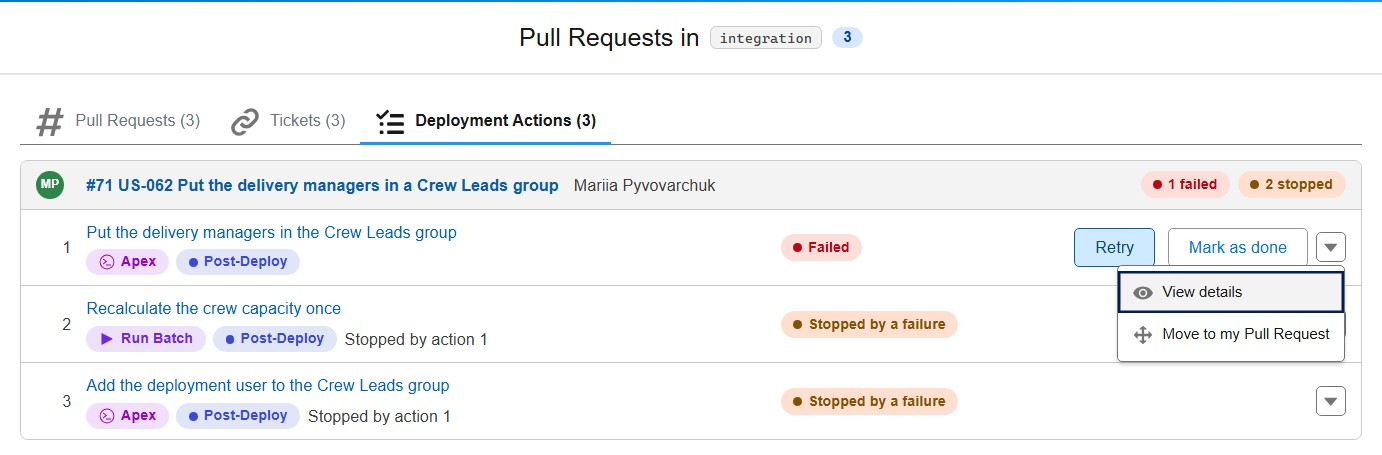
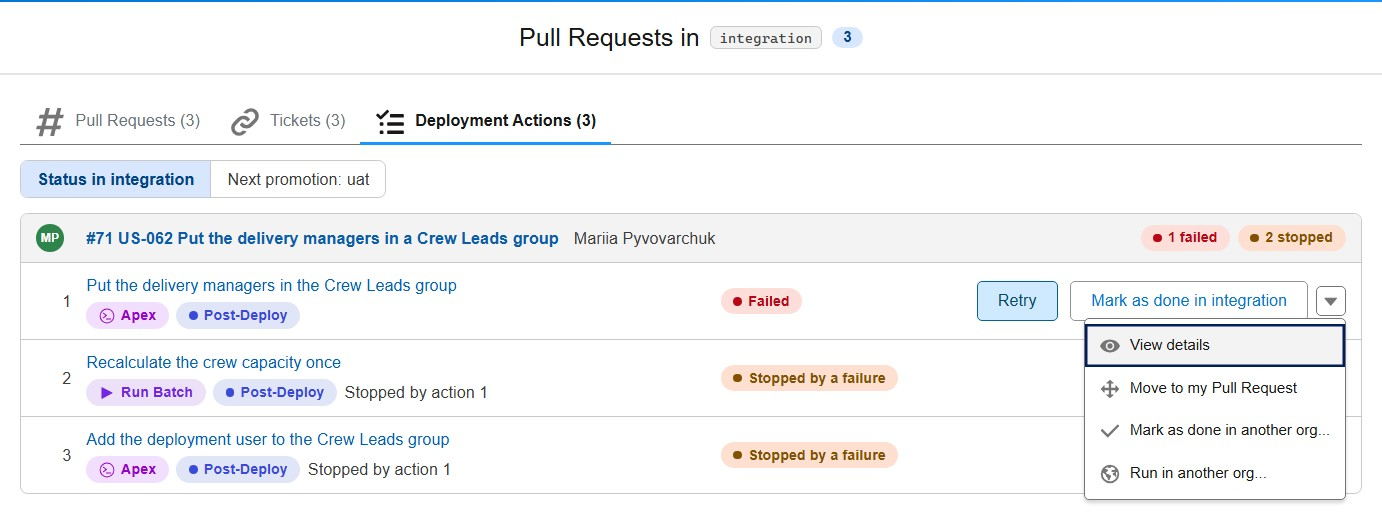
docs(deployment-actions): Total pills of the VS Code Deployment Actions tab (#2278)
* docs(deployment-actions): describe the Total pills of the VS Code Deployment Actions tab

The tab adds up the pills of its Pull Requests in a Total row, and the
"N to do" counter of the promotion bar is gone. The screenshot of the tab is
taken again with the current extension: it shows the Status / Next promotion
switch and the four items of the row menu.

Part of #2274

* docs(deployment-actions): the Total pills filter the VS Code Deployment Actions tab

Part of #2274

diff --git a/docs/salesforce-devops-work-on-user-story-deployment-actions.md b/docs/salesforce-devops-work-on-user-story-deployment-actions.md
@@ -662,7 +662,7 @@ You do not need to re-run the whole deployment job. Pick the way that fits the c
 | The action definition is wrong (script path, class name, parameter)             | **Move it to a fix Pull Request**, correct it there, merge: it runs from the fix Pull Request                       |
 | Someone already did it by hand                                                  | **Mark it as done**: it is recorded as done, with who closed it and when, and later deployments to that org skip it |
 
-**From VS Code**: open the DevOps Pipeline, click the major branch (or the Pull Request), then the **Deployment Actions** tab. The actions are grouped by Pull Request, in the order they run, with their status in the org of the branch and, for a stopped one, the action that stopped it. A failed action shows **Retry** and **Mark as done** buttons, and the menu at the end of each row holds the rest, **Move to my Pull Request** included.
+**From VS Code**: open the DevOps Pipeline, click the major branch (or the Pull Request), then the **Deployment Actions** tab. The actions are grouped by Pull Request, in the order they run, with their status in the org of the branch and, for a stopped one, the action that stopped it. The header of each Pull Request counts its actions by status and, when the window lists several Pull Requests, the **Total** pills above them add up the whole window. Click a **Total** pill to hide the actions of that status, and click it again to show them. A failed action shows **Retry** and **Mark as done** buttons, and the menu at the end of each row holds the rest, **Move to my Pull Request** included.
 
 ![Deployment Actions tab with the status of each action and the menu of a failed one](assets/images/screenshot-deployment-action-failed-tab.jpg)
 
@@ -674,7 +674,7 @@ You do not need to re-run the whole deployment job. Pick the way that fits the c
 
 Click a status pill to see the action in every org: one line per major branch (status, date, job, note, and a **Mark as done** button where it is not done yet), then one line per developer sandbox or scratch org that ran it, from the Backpromotes comment of the Pull Request.
 
-In the window of a major branch, the **Next promotion: preprod** switch (the first merge target of the branch) shows what the promotion will do with each action in preprod: **Waiting for you** (a pre-deployment manual action, with **Mark as done in preprod**), **After the merge** (a post-deployment manual action, to do once the promotion is deployed), **Done in preprod**, **Runs at validation**, **Runs at deployment**, **Failed in preprod**, **Not for preprod** (branch filter, validation only), or **Not in this promotion** when the open promotion Pull Request does not carry its Pull Request. A bar above the actions links the promotion Pull Request, its last job, and counts what is left to do. The forecast comes from [sf hardis:project:action:list](hardis/project/action/list.md) with `--forecast`.
+In the window of a major branch, the **Next promotion: preprod** switch (the first merge target of the branch) shows what the promotion will do with each action in preprod: **Waiting for you** (a pre-deployment manual action, with **Mark as done in preprod**), **After the merge** (a post-deployment manual action, to do once the promotion is deployed), **Done in preprod**, **Runs at validation**, **Runs at deployment**, **Failed in preprod**, **Not for preprod** (branch filter, validation only), or **Not in this promotion** when the open promotion Pull Request does not carry its Pull Request. A bar above the actions links the promotion Pull Request and its last job, and the **Total** pills add up the actions the promotion carries (the Pull Requests it leaves out are not counted). The forecast comes from [sf hardis:project:action:list](hardis/project/action/list.md) with `--forecast`.
 
 **Mark as done in another org...**, in the menu of every action, asks where it was done: a major branch where it is not done yet, before or after the current one, or a developer org authenticated on your computer. Before creating the Pull Request from uat to preprod, mark the pre-deployment manual actions you already did in preprod: its validation and deployment jobs skip them. In a developer org, the action is recorded in the Backpromotes comment for that org, and a backpromote skips it there. A manual action waiting in the org has the same button: it does what ticking its checkbox in the Pull Request comment does, and also names who did it. A failure the action allows (*Failed (allowed)*) blocked nothing, so its group is not listed first. In the window of a major branch, an action never run in its org, or skipped there, has **Run in <branch>** in its menu: sfdx-hardis asks for a confirmation first. **Move to my Pull Request** stays greyed out until you are on a branch with a Pull Request. **Run in another org...**, on every action that can run, lists every org authenticated on your computer, the orgs of the major branches first: in a major org it is a retry, recorded in the Deployment Actions comment; in a developer sandbox or a scratch org it is a try, also recorded in the Backpromotes comment of the Pull Request for that org, so a later backpromote does not run it again there.
 

diff --git a/CHANGELOG.md b/CHANGELOG.md
@@ -2,6 +2,7 @@
 
 ## [beta] (main)
 
+- VS Code [Deployment Actions tab](https://sfdx-hardis.cloudity.com/salesforce-devops-work-on-user-story-deployment-actions/#recover-a-failed-action): a **Total** row adds up the pills of its Pull Requests and filters the actions by status, for the status in the branch and for the next promotion ([#2274](https://github.com/hardisgroupcom/sfdx-hardis/issues/2274)).
 - [Deployment actions](https://sfdx-hardis.cloudity.com/salesforce-devops-work-on-user-story-deployment-actions/#identical-actions-run-once): when several Pull Requests of one deployment carry the same action, it runs once and the others are recorded as done.
 - Two Pull Requests reusing the same deployment action id no longer skip each other's action.
 - Deployment jobs stop with the line to add to the CI workflow when git refuses the checkout ("detected dubious ownership"), instead of skipping the deployment actions; the GitHub Actions templates now include it.
